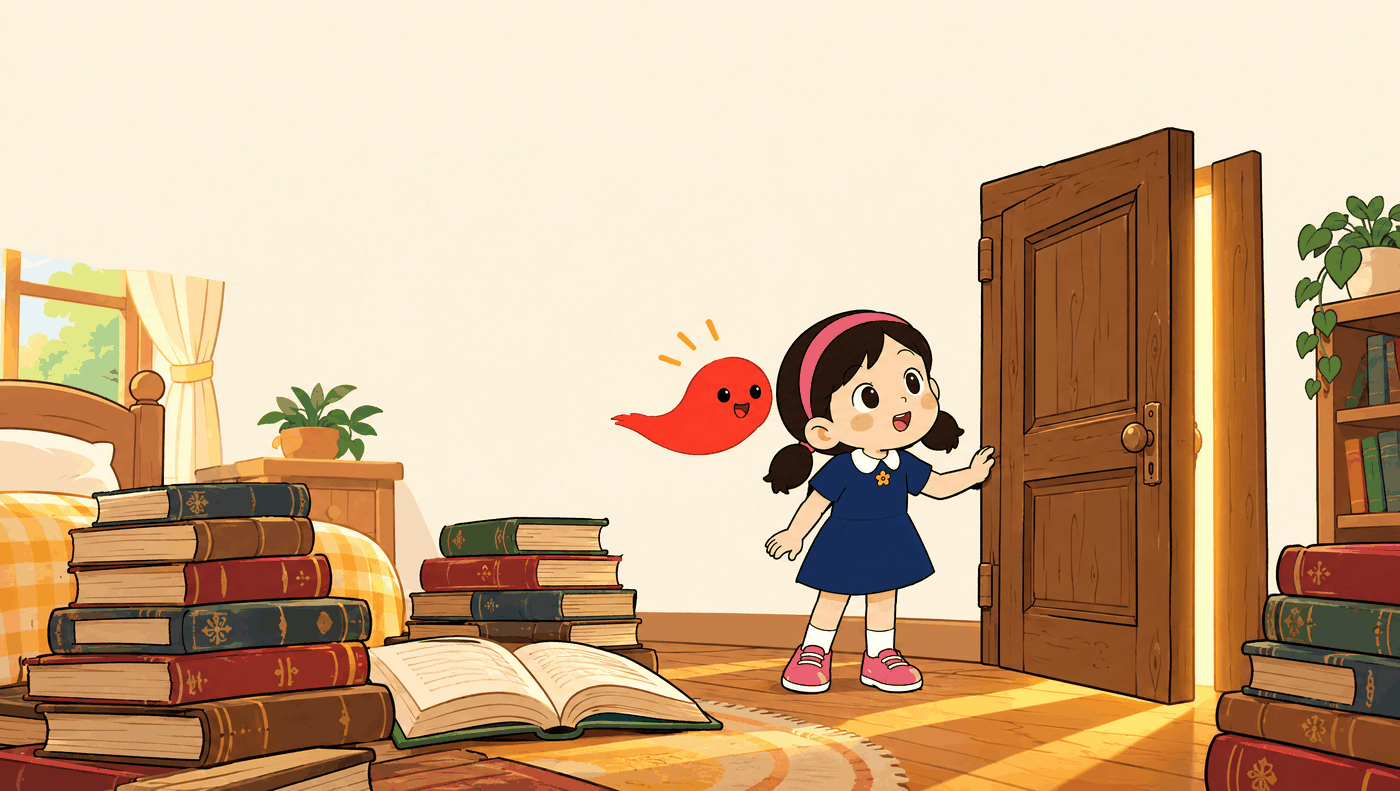
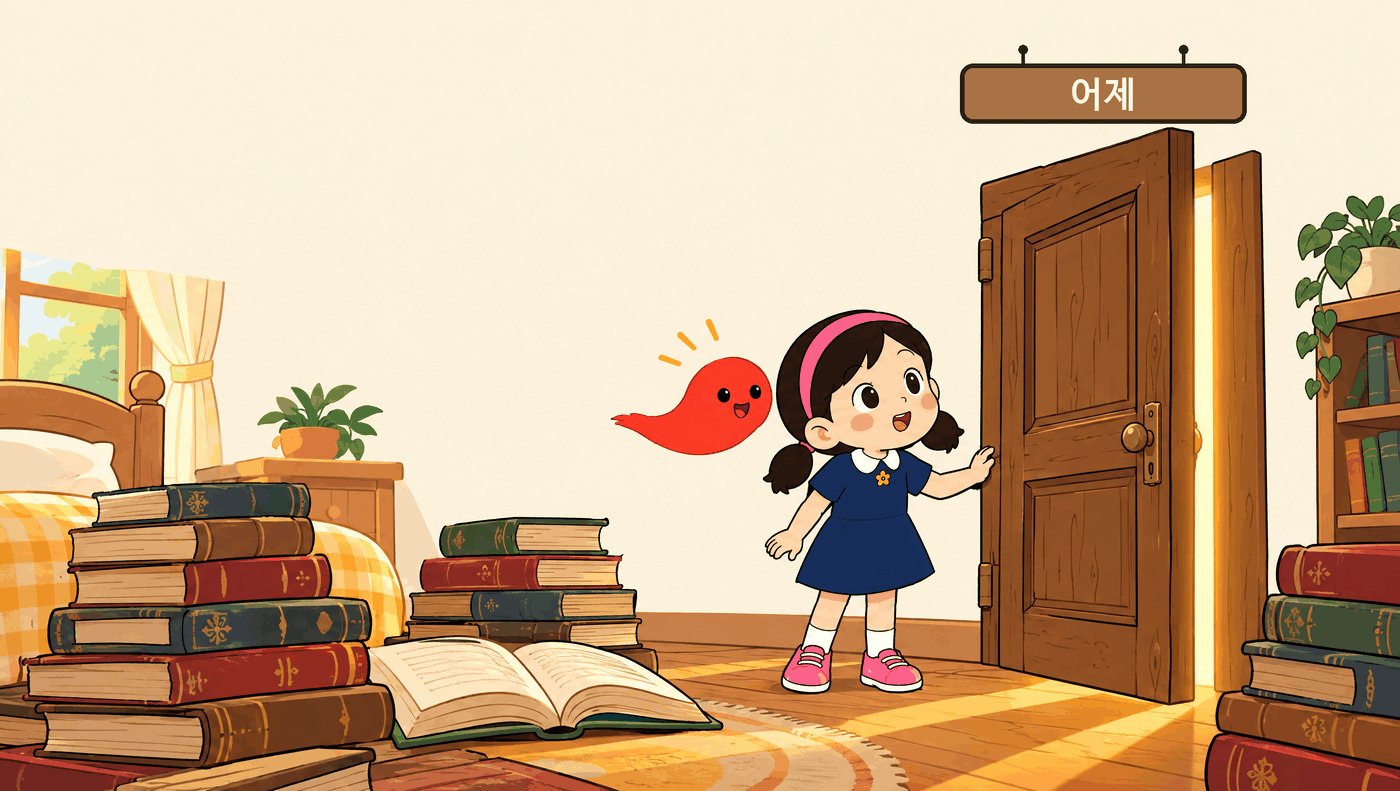
1컷 문 위에 「어제」 간판 추가
나레이션은 "문 위에 어제라고 적혀 있었어요" 라고 하는데 그림에는
아무것도 안 적혀 있어서 말과 그림이 어긋나 있었다.
간판을 글꼴로 직접 그려 그림에 구워 넣었다. AI에게 글자를 맡기지
않았으므로 깨지지 않고, 그림에 박혀 있어 영상 카메라와 함께 움직인다.

diff --git a/grammar/작업메모.md b/grammar/작업메모.md
@@ -23,6 +23,13 @@
 그림 안에 `ed` 글자를 그려 넣지 않은 건 일부러입니다. AI가 알파벳을 깨뜨립니다.
 나레이션은 `ed` 를 「이디」로 읽습니다.
 
+**문 위 「어제」 간판** — 나레이션은 "문 위에 어제라고 적혀 있었어요" 라고 하는데
+그림에는 아무것도 안 적혀 있어서 말과 그림이 어긋났습니다.
+간판을 파이썬으로 그려 1컷 그림에 구워 넣었습니다 (`영상만드는_도구/0d_문에_어제_간판_그리기.py`).
+AI에게 글자를 그리게 하지 않았으니 깨지지 않고, 그림에 박혀 있으니 영상 카메라가 움직여도 문에 붙어 갑니다.
+영상은 16:9 그림에서 위아래 약 73px(원본 기준)을 잘라 쓰므로 간판은 그 아래에 둬야 합니다.
+그 검사가 스크립트에 들어 있습니다.
+
 **컷이 5개로** — `e` 로 끝나면 `d` 만 붙이는 규칙(bake → baked)을 한 컷 추가했습니다.
 
 **움직임** — 말풍선이 톡 뜨고, 컷이 아래에서 올라오고, 장면이 아주 천천히 흐릅니다.
